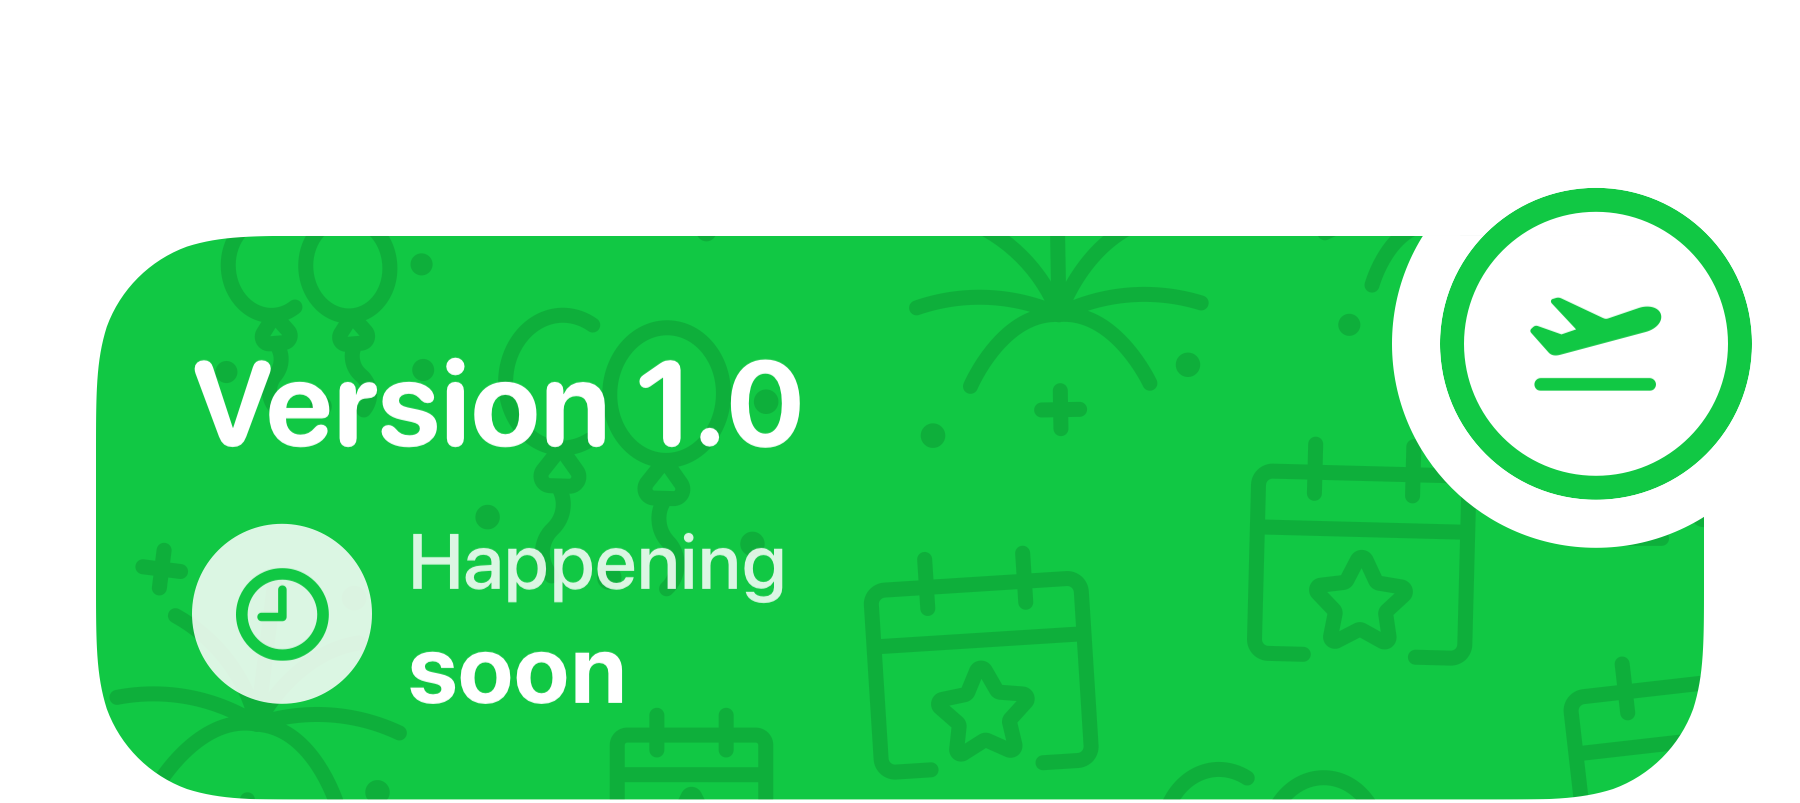
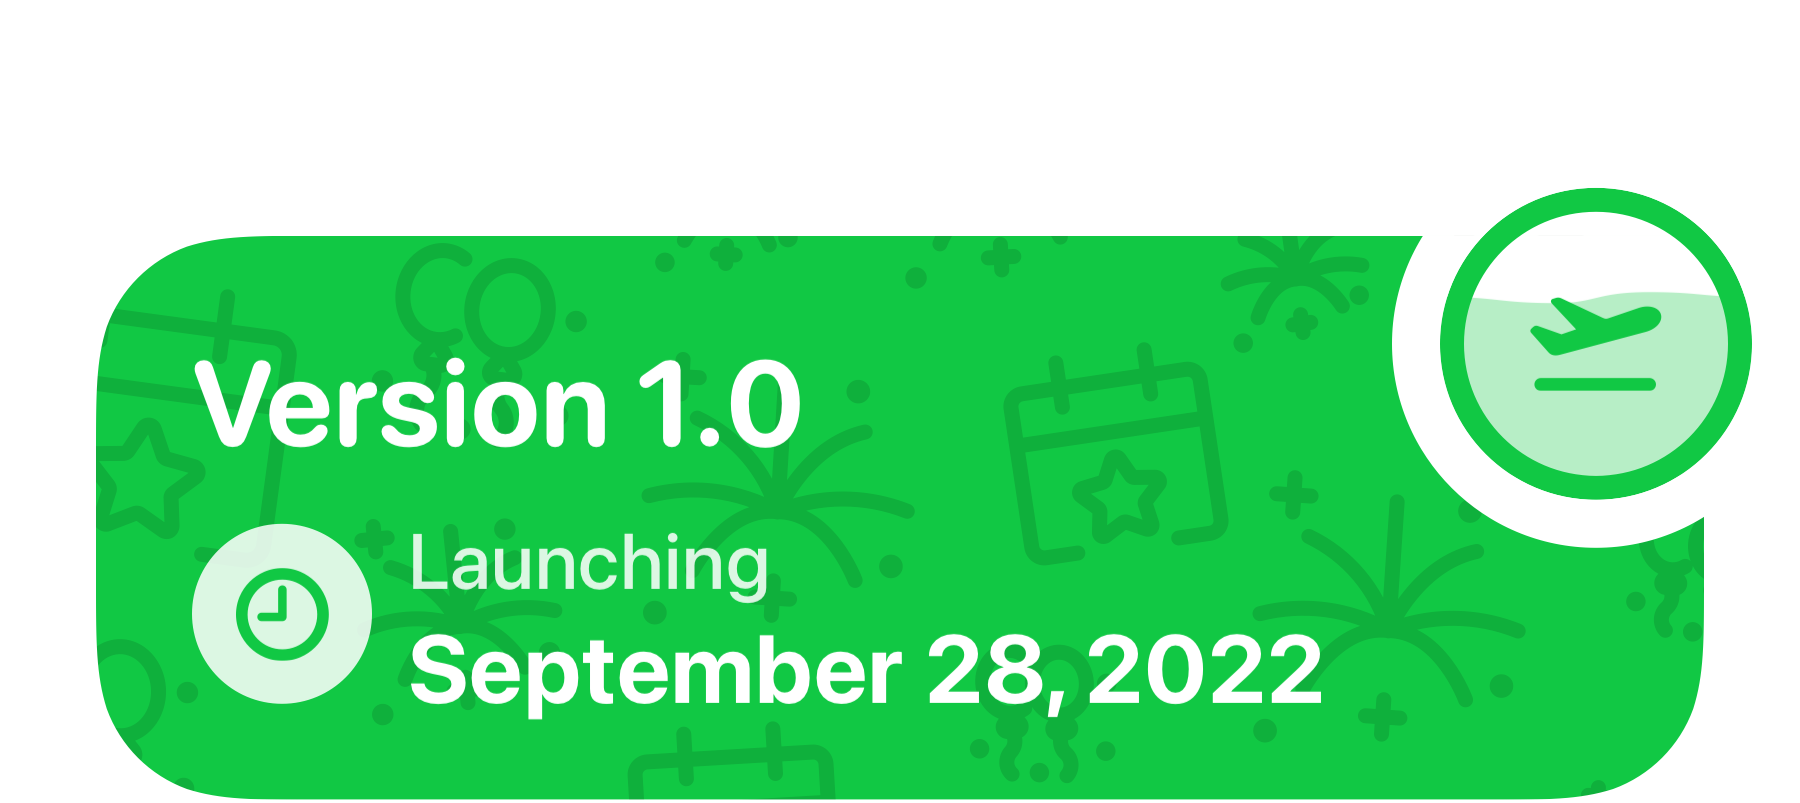
Include official launch day and pre-order link.

diff --git a/index.html b/index.html
@@ -36,13 +36,12 @@
             <div id="long-segment"></div>
         </div>
         <a id="stayTuned" href="https://twitter.com/theupaheadapp" class="button">Stay tuned</a>
-        <!-- <div id="timeline">
+        <div id="timeline">
             <div id="long-segment"></div>
             <div id="short-segment"></div>
             <div id="long-segment"></div>
         </div>
-        <a id="getNotified" href="https://twitter.com/theupaheadapp" class="button">Get notified</a>
-        <p id="note" class="stackText">(I'll send you exactly one email when the app launches, and then delete your address from my records forever.)</p> -->
+        <a id="bottomButton" href="https://apps.apple.com/us/app/up-ahead-countdown-widgets/id1583147528" class="button">Pre-order</a>
     </div>    
 </body>
 

diff --git a/colorScript.js b/colorScript.js
@@ -49,6 +49,7 @@ function setColor(index) {
 
      document.getElementById("background").style.backgroundColor = `${randomColorHex}1a`;
      document.getElementById("stayTuned").style.color = `${randomColorHex}`;
+     document.getElementById("bottomButton").style.color = `${randomColorHex}`;
      // document.getElementById("getNotified").style.color = `${randomColorHex}`;
 
      const buttons = document.querySelectorAll('.button');

diff --git a/style.css b/style.css
@@ -134,6 +134,6 @@ h2 {
 	padding-top: 16px;
 }
 
-#stayTuned {
+#bottomButton {
 	margin-bottom: 16px;
 }
